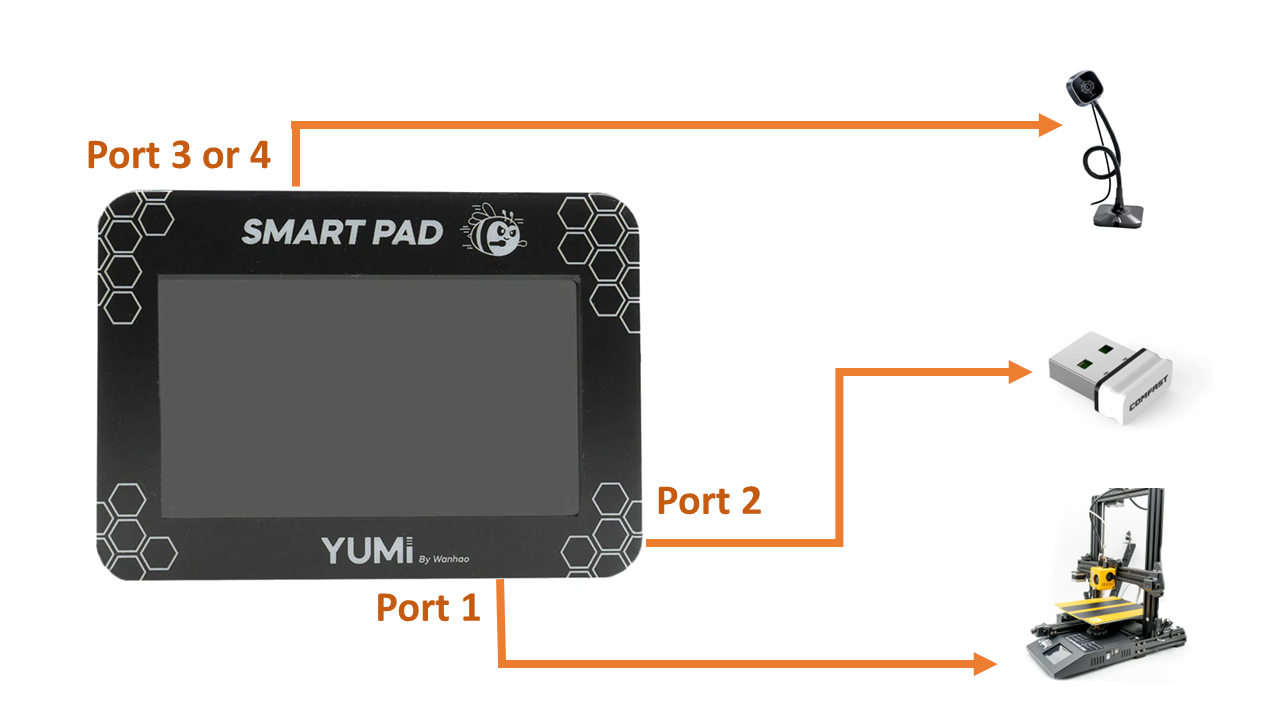
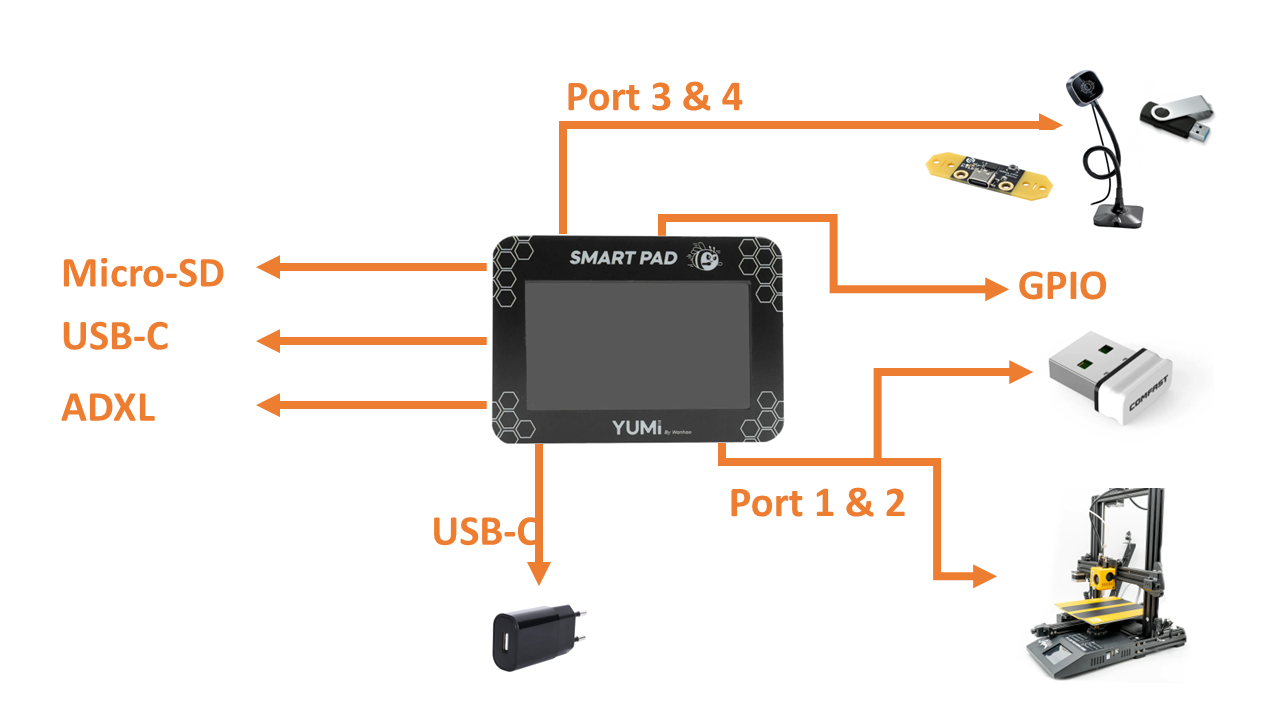
update img

diff --git a/docs/KlipperSmartPad/SmartPad_specifications.md b/docs/KlipperSmartPad/SmartPad_specifications.md
@@ -6,6 +6,8 @@
 
 The Wanhao SMART Pad case is a complete case with Klipper pre-installed in the Wanhao colors. The WANHAO SMART PAD case is an "open source" project, which means it will benefit from a large community of users. This external Klipper case is the perfect complement to your 3D printer. Whether you're a beginner or a professional, this tool is designed to maximize the performance of your 3D printer and improve the quality of your prints.
 
+![KlipperSmartPad](/img/KlipperSmartPad/SmartpadConnections2.png)
+
 ## Key benefits
 
 - Increased printing speed: Klipper merges the processing power of your 3D printer with that of an external computer. This increases printing speed without compromising quality.
